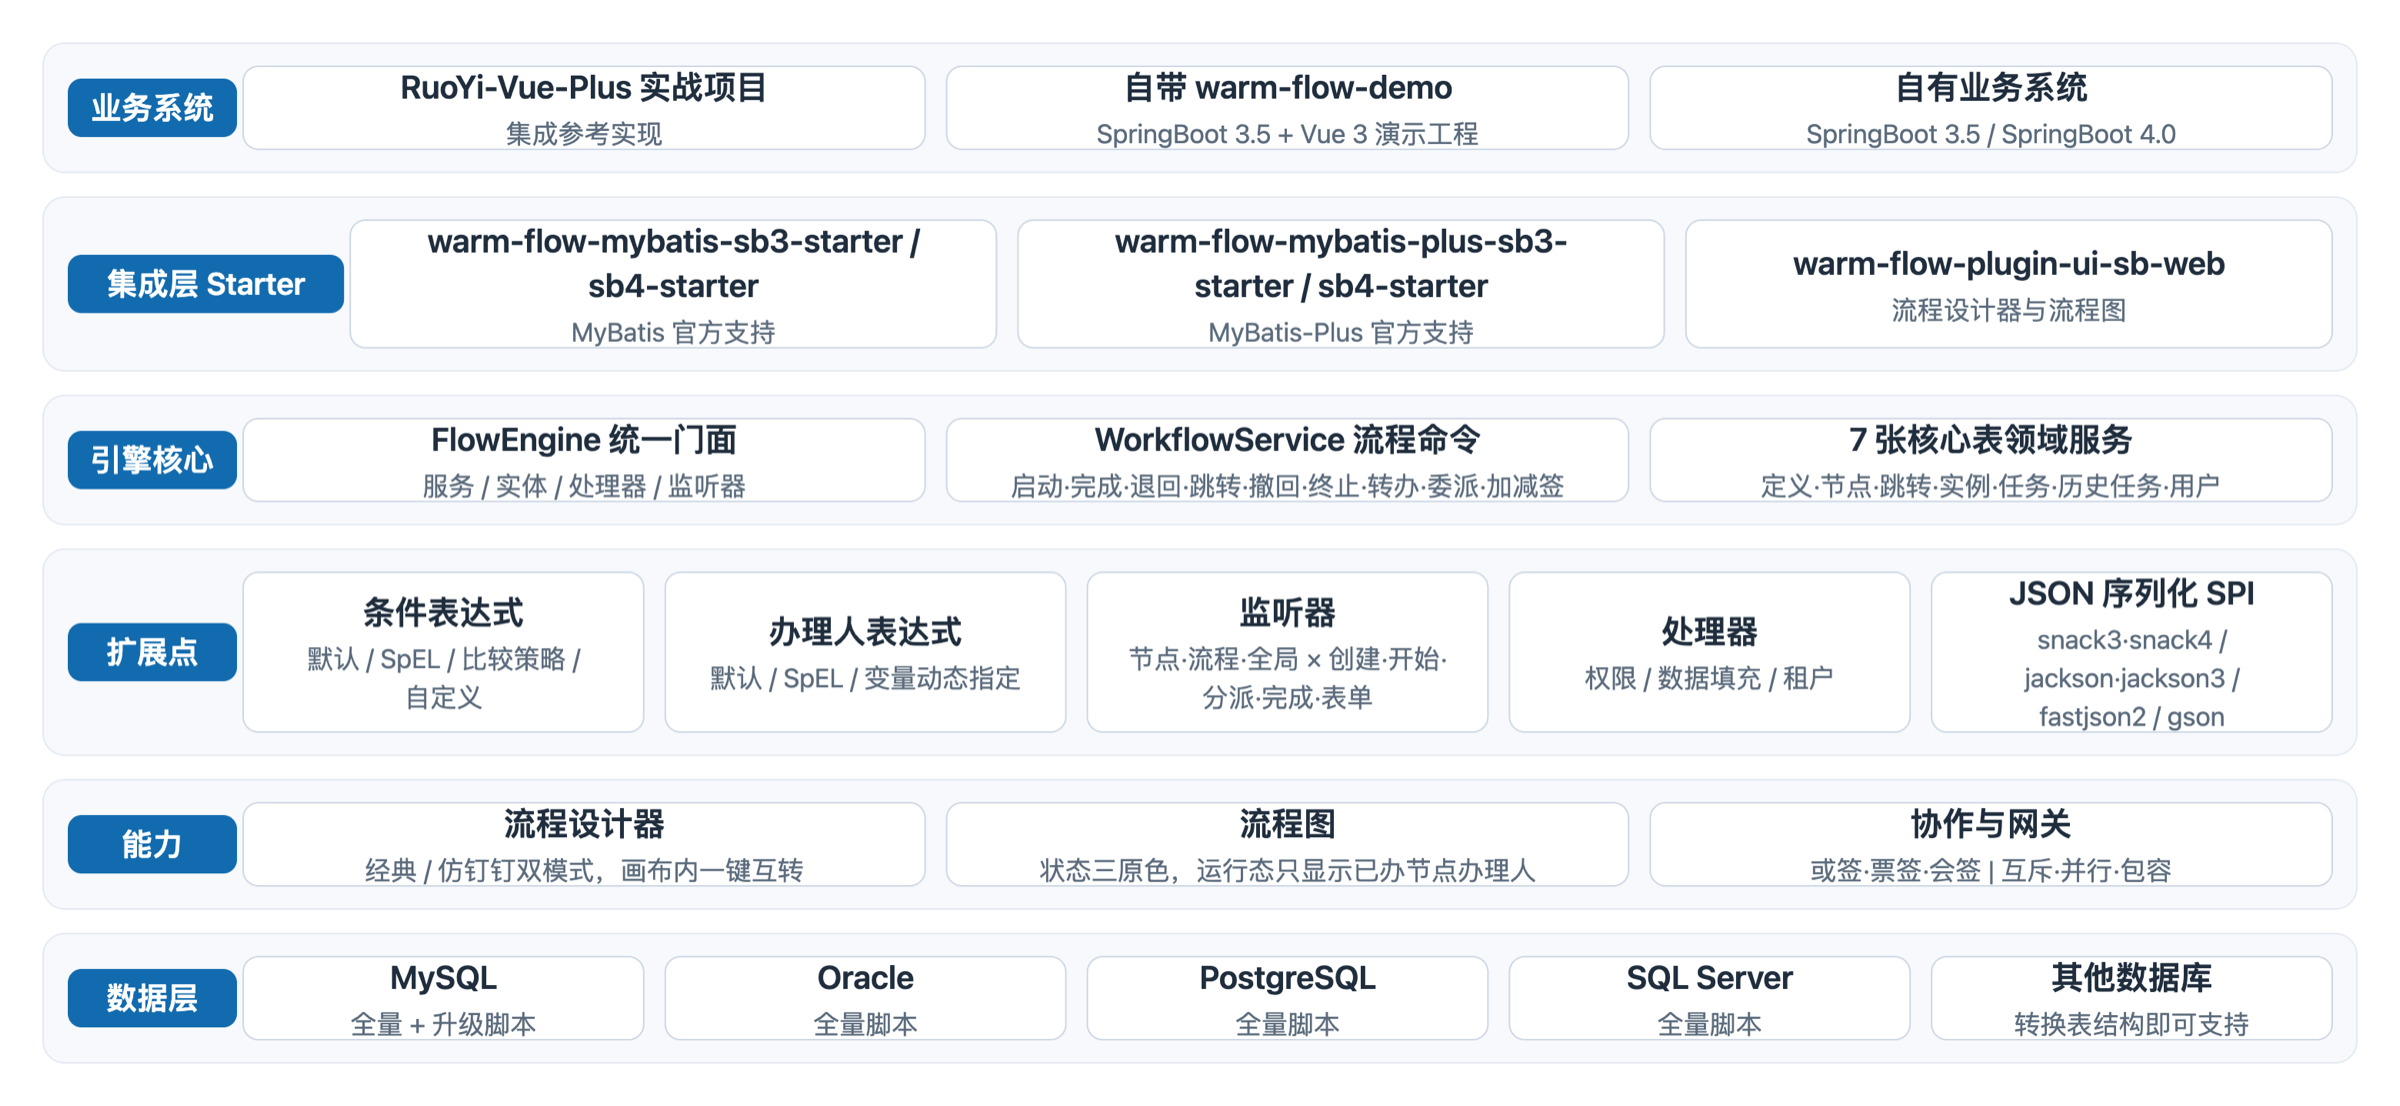
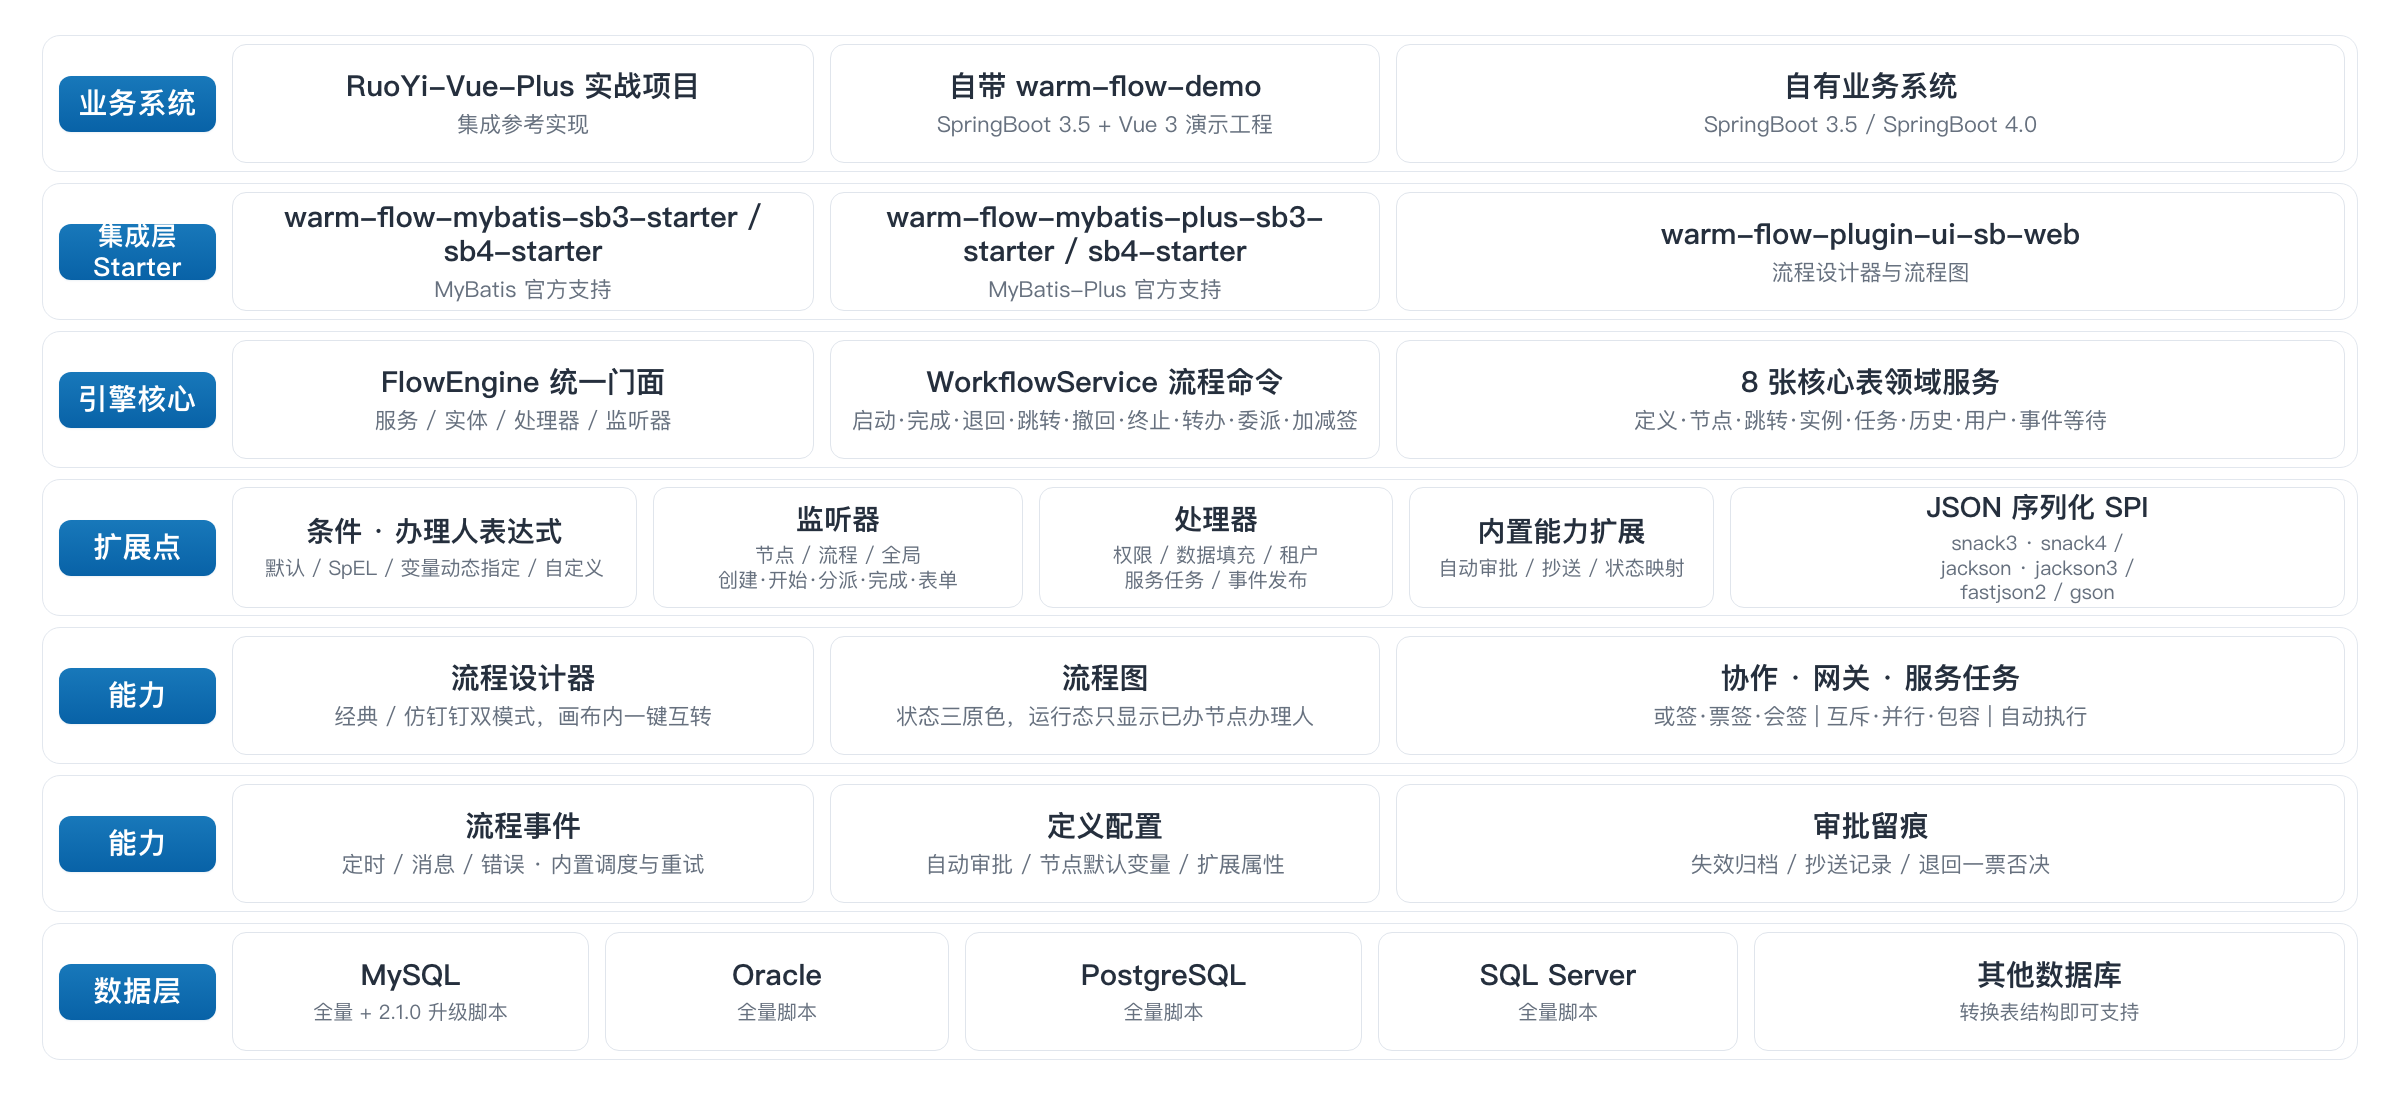
update: 统一 2.1.0 版本信息

diff --git a/warm-flow-demo/warm-flow-demo-web/src/layout/AppLayout.vue b/warm-flow-demo/warm-flow-demo-web/src/layout/AppLayout.vue
@@ -87,7 +87,7 @@
         </el-menu-item-group>
       </el-menu>
 
-      <div class="aside-foot">Warm-Flow v2.0 · 本地演示</div>
+      <div class="aside-foot">Warm-Flow v2.1 · 本地演示</div>
     </el-aside>
 
     <button

diff --git a/warm-flow-ui/README.md b/warm-flow-ui/README.md
@@ -1,7 +1,7 @@
 <p align="center">
 	<img alt="logo" src="https://foruda.gitee.com/images/1726820610127990120/c8c5f3a4_2218307.png" width="100">
 </p>
-<h1 align="center" style="margin: 30px 0 30px; font-weight: bold;">Warm-Flow工作流 v1.8.2</h1>
+<h1 align="center" style="margin: 30px 0 30px; font-weight: bold;">Warm-Flow工作流 v2.1.0</h1>
 <p align="center">
 	<a href="https://gitee.com/sgs98/warm-flow/stargazers"><img src="https://gitee.com/sgs98/warm-flow/badge/star.svg?theme=dark"></a>
 </p>
@@ -10,7 +10,7 @@
 
 Warm-Flow国产工作流引擎🎉，其特点简洁轻量，五脏俱全，灵活扩展性强，是一个可通过jar引入设计器的工作流。
 
-1. 简洁易用：只有7张表，代码量少，可快速上手和集成
+1. 简洁易用：核心 8 张表（事件能力默认关闭），代码量少，可快速上手和集成
 2. 审批功能：支持通过、退回、任意跳转、转办、终止、会签、票签、委派和加减签、互斥和并行网关
 3. 监听器与流程变量：支持五种监听器，可应对不同场景，灵活可扩展，参数传递，动态权限
 4. 流程图：流程引擎自带流程图，可在不集成流程设计器情况下使用

diff --git a/README.md b/README.md
@@ -56,14 +56,14 @@
 <dependency>
     <groupId>io.github.sgs98</groupId>
     <artifactId>warm-flow-mybatis-plus-sb3-starter</artifactId>
-    <version>2.0.1</version>
+    <version>2.1.0</version>
 </dependency>
 
 
 <dependency>
     <groupId>io.github.sgs98</groupId>
     <artifactId>warm-flow-plugin-ui-sb-web</artifactId>
-    <version>2.0.1</version>
+    <version>2.1.0</version>
 </dependency>
 ```
 
@@ -75,7 +75,7 @@
 仓库内 `warm-flow-demo` 提供 Spring Boot 3.5 + Vue 3 的全栈演示工程，可直接体验流程定义、审批与双模式设计器：
 
 ```bash
-# 1) 准备数据库：引擎 7 张核心表 + demo 业务表 + 初始数据
+# 1) 准备数据库：引擎 8 张核心表（事件能力默认关闭）+ demo 业务表 + 初始数据
 mysql -uroot -p warm-flow < sql/mysql/warm-flow-all.sql
 mysql -uroot -p warm-flow < warm-flow-demo/warm-flow-demo/src/main/resources/sql/schema.sql
 mysql -uroot -p warm-flow < warm-flow-demo/warm-flow-demo/src/main/resources/sql/data.sql

diff --git a/warm-flow-demo/README.md b/warm-flow-demo/README.md
@@ -21,7 +21,7 @@ warm-flow-demo/
 按顺序执行 SQL：
 
 ```bash
-# 1) Warm-Flow 引擎 7 张核心表（官方规范脚本，本 demo 不复制）
+# 1) Warm-Flow 引擎 8 张核心表（事件能力默认关闭，本 demo 不复制）
 mysql -uroot -p warm-flow < <repo>/sql/mysql/warm-flow-all.sql
 
 # 2) demo 业务表
@@ -37,7 +37,7 @@ mysql -uroot -p warm-flow < warm-flow-demo/src/main/resources/sql/data.sql
 
 ```bash
 cd warm-flow-demo
-mvn spring-boot:run            # 或打包 java -jar target/warm-flow-demo-2.0.0.jar
+mvn spring-boot:run            # 或打包 java -jar target/warm-flow-demo-2.1.0.jar
 ```
 
 前端：
